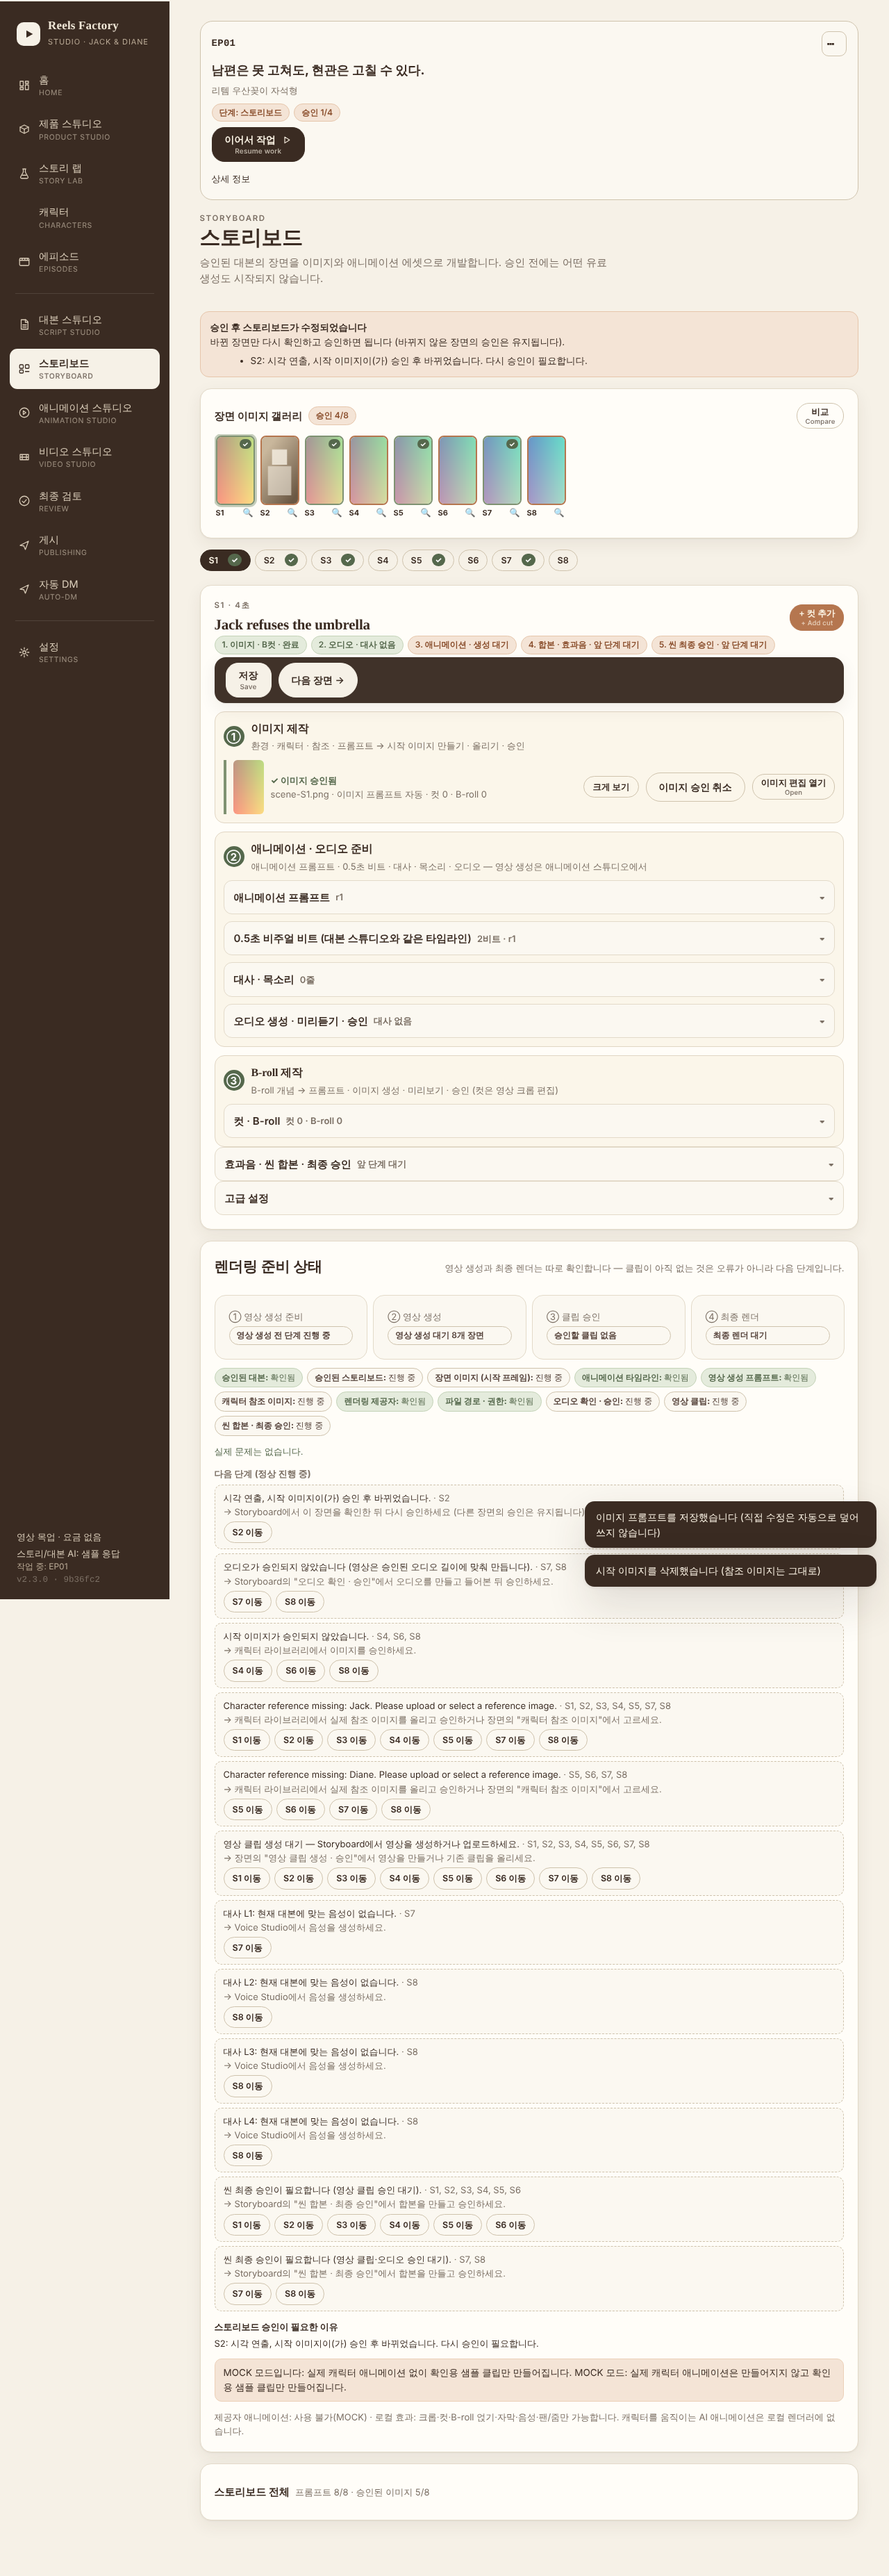
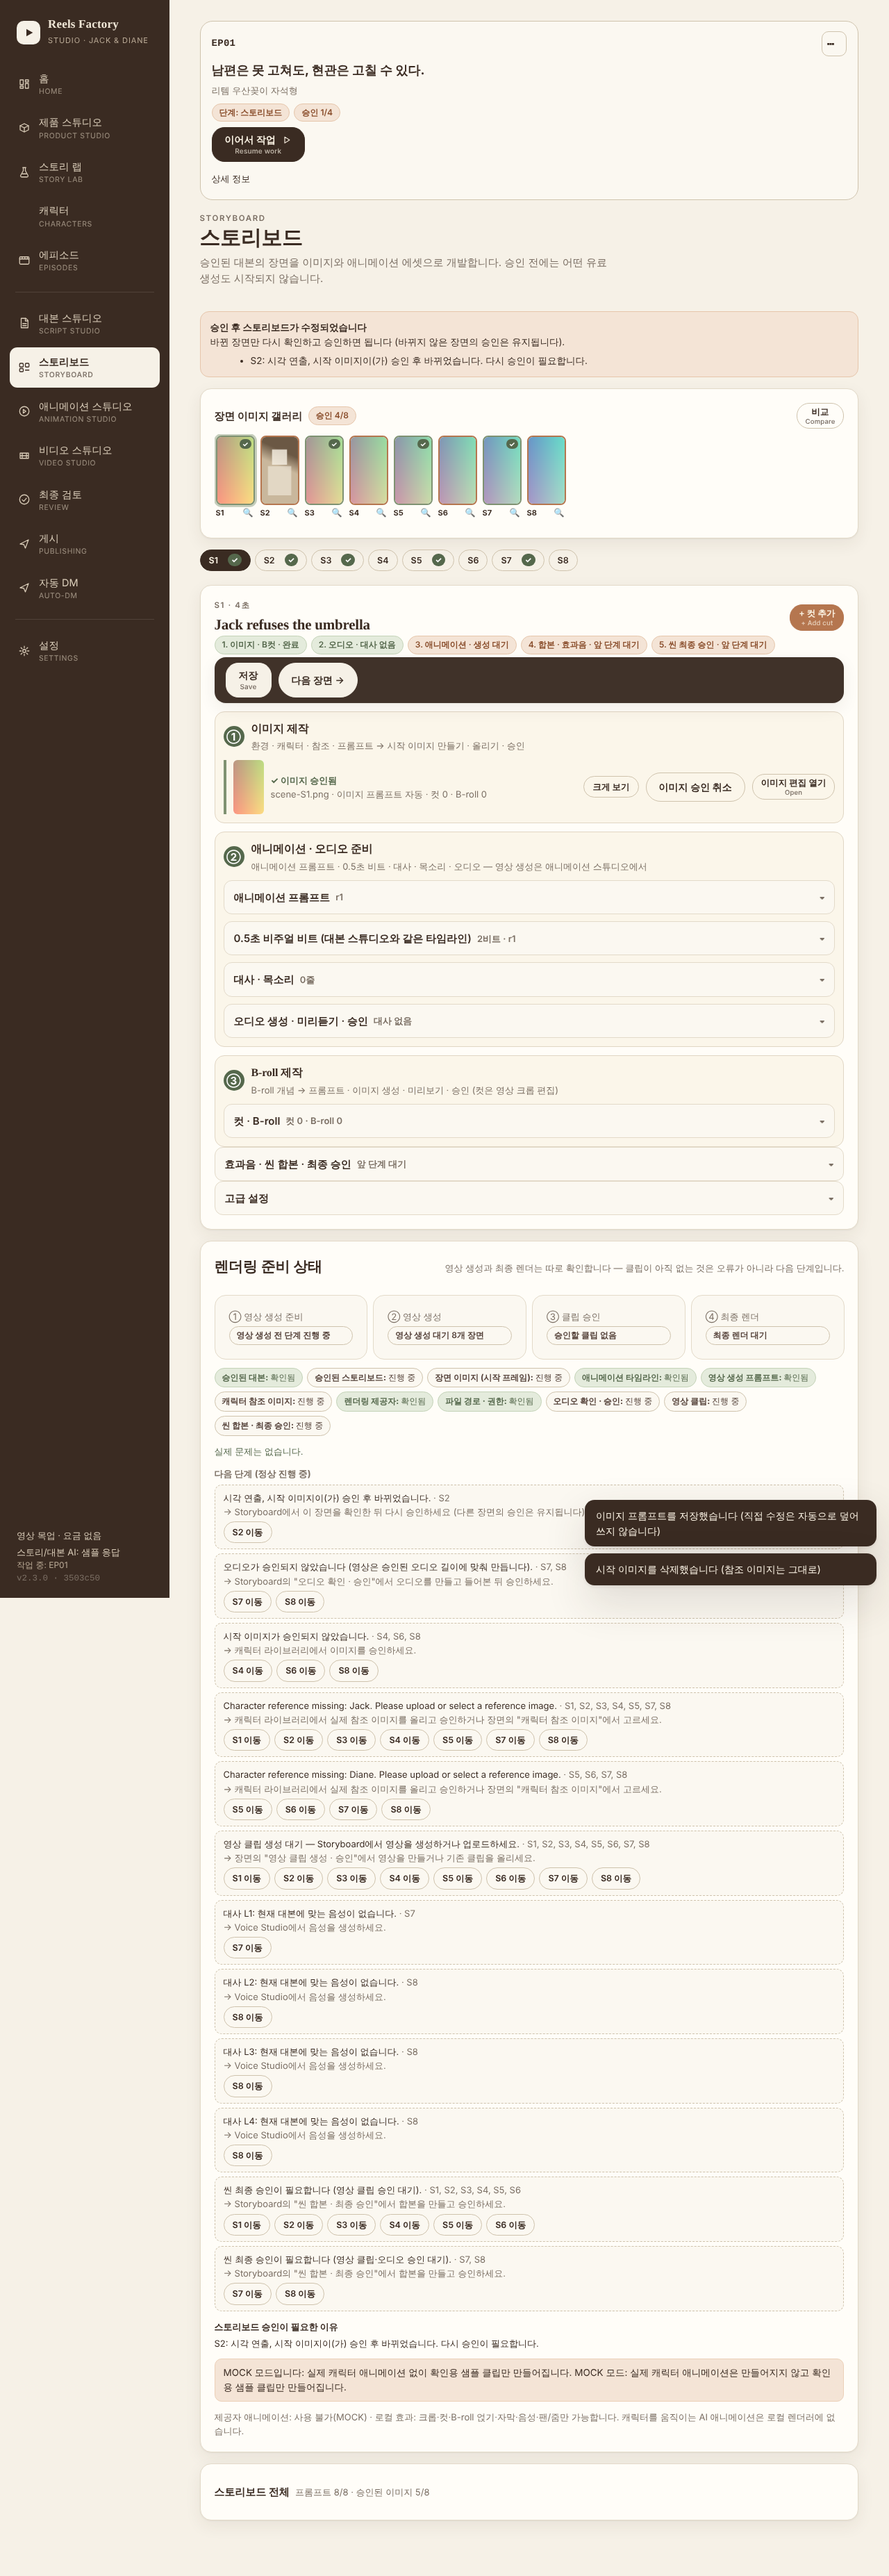
Readiness: clip items point to Animation Studio (messages, actions, tests)
Claude-Session: https://claude.ai/code/session_01922eT3V3rLrrRonyShXwda

diff --git a/studio/lib/renderready.js b/studio/lib/renderready.js
@@ -78,8 +78,8 @@ function createRenderReadiness({ store, gen, charRefs, animplan, sba, renderer, 
     // ---------------------------------------------------------------- stage B: final render (clips, audio, B-roll files)
     const sceneRows = scenes.map((sc) => ({ sceneId: sc.id, clip: clipState(ep, sc) }));
     sceneRows.forEach(({ sceneId, clip }) => {
-      if (clip.state === 'none') add('clips', 'pending', 'CLIP_NOT_GENERATED', `${sceneId}: 영상 클립 생성 대기 — Storyboard에서 영상을 생성하거나 업로드하세요.`, '장면의 "영상 클립 생성 · 승인"에서 영상을 만들거나 기존 클립을 올리세요.', sceneId, 'render');
-      else if (clip.state === 'unapproved') add('clips', 'pending', 'CLIP_AWAITING_APPROVAL', `${sceneId}: 클립 승인 대기 (${clip.versions}개) — Storyboard에서 미리보고 승인하세요.`, '장면의 "영상 클립 생성 · 승인"에서 클립을 확인하고 승인하세요.', sceneId, 'render');
+      if (clip.state === 'none') add('clips', 'pending', 'CLIP_NOT_GENERATED', `${sceneId}: 영상 클립 생성 대기 — 애니메이션 스튜디오에서 영상을 생성하거나 업로드하세요.`, '애니메이션 스튜디오에서 이 장면을 열어 영상을 만들거나 기존 클립을 올리세요.', sceneId, 'render');
+      else if (clip.state === 'unapproved') add('clips', 'pending', 'CLIP_AWAITING_APPROVAL', `${sceneId}: 클립 승인 대기 (${clip.versions}개) — 애니메이션 스튜디오에서 미리보고 승인하세요.`, '애니메이션 스튜디오에서 클립을 확인하고 승인하세요.', sceneId, 'render');
       else if (clip.state === 'broken') add('clips', 'block', 'CLIP_APPROVAL_BROKEN', `${sceneId}: ${clip.problem}`, '애니메이션 스튜디오에서 클립을 다시 승인하세요 (파일은 지워지지 않았습니다).', sceneId, 'render');
     });
     scenes.forEach((sc) => { // an approved clip made from a start image that has since been replaced stays usable but is flagged (nothing is revoked silently)

diff --git a/tests/readiness-workflow.test.js b/tests/readiness-workflow.test.js
@@ -61,7 +61,7 @@ test('workflow: script → storyboard → images → generate (no clip required)
   // no clip exists yet: every scene is "waiting for video generation" — neutral pending items, never a red error
   assert.equal(r.clips.none, ids.length); assert.equal(r.stages.clipGeneration.status, 'waiting'); assert.equal(r.stages.render.status, 'waiting');
   const pend = r.items.filter((i) => i.code === 'CLIP_NOT_GENERATED');
-  assert.equal(pend.length, ids.length); assert.ok(pend.every((i) => i.severity === 'pending' && /영상 클립 생성 대기 — 애니메이션 스튜디오에서 영상을 생성하거나 업로드하세요\./.test(i.message) && i.action.view === 'storyboard' && i.action.panel === 'clips' && i.action.sceneId));
+  assert.equal(pend.length, ids.length); assert.ok(pend.every((i) => i.severity === 'pending' && /영상 클립 생성 대기 — 애니메이션 스튜디오에서 영상을 생성하거나 업로드하세요\./.test(i.message) && i.action.view === 'animation' && i.action.sceneId), 'clip items open the scene in Animation Studio');
   assert.equal(r.items.filter((i) => i.severity === 'block').length, 0, 'no red errors for a normal unfinished workflow');
   assert.ok(!JSON.stringify(r.items).includes('Animation Studio'), 'no instruction points at a page that is not in the navigation');
   // generation does not need a previously generated clip

diff --git a/tests/scene-pipeline.test.js b/tests/scene-pipeline.test.js
@@ -137,7 +137,7 @@ test('readiness: every pending/blocking item is clickable (has an action to the 
   const open = rd.items.filter((i) => i.severity === 'pending' || i.severity === 'block');
   assert.ok(open.length > 0);
   assert.deepEqual(open.filter((i) => !i.action).map((i) => i.code), [], 'no unclickable notice');
-  assert.ok(open.filter((i) => i.sceneId).every((i) => i.action.view === 'storyboard' && i.action.sceneId === i.sceneId));
+  assert.ok(open.filter((i) => i.sceneId).every((i) => (i.action.view === 'storyboard' || (i.action.view === 'animation' && /^CLIP_/.test(i.code))) && i.action.sceneId === i.sceneId));
   const nostory = open.find((i) => i.code === 'STORYBOARD_NOT_APPROVED');
   assert.equal(nostory.action.view, 'storyboard');
   await s.revokeStoryboard(ID);
